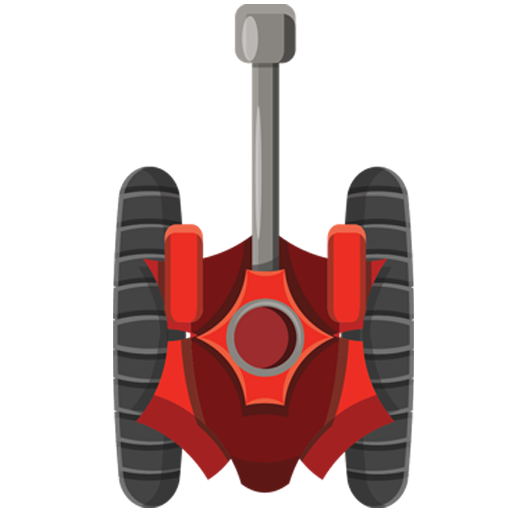
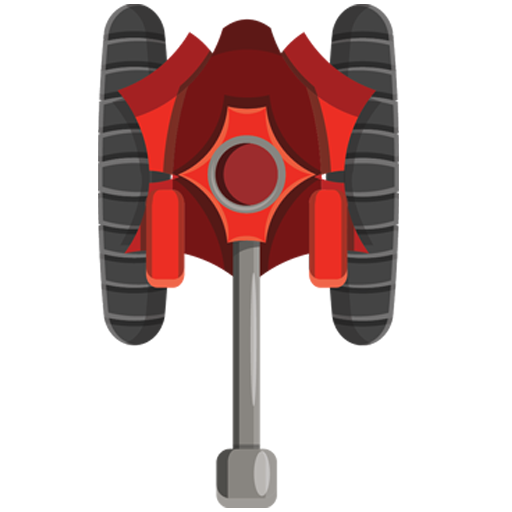
aligned both the players

diff --git a/src/App/Components/CanvasElements/Background.tsx b/src/App/Components/CanvasElements/Background.tsx
@@ -1,8 +1,8 @@
 import React from "react";
 import Konva from "konva";
 import { Stage, Layer } from "react-konva";
-import Star from "./Star";
-import URLImage from "./URLImage";
+import Hero from "../Hero";
+import Villian from "../Villian";
 
 interface IProps {
   stageWidth: number;
@@ -38,19 +38,8 @@ export default class Background extends React.Component<IProps> {
     return (
       <Stage width={stageWidth} height={stageHeight}>
         <Layer>
-          <Star
-            width={stageWidth}
-            height={stageHeight}
-            handleDragStart={this.handleDragStart}
-            handleDragEnd={this.handleDragEnd}
-          />
-          <URLImage
-            src={require("Src/Assets/redtank.png")}
-            height={50}
-            width={50}
-            positionX={250}
-            positionY={50}
-          />
+          <Hero stageWidth={stageWidth} stageHeight={stageHeight} />
+          <Villian stageWidth={stageWidth} stageHeight={stageHeight} />
         </Layer>
       </Stage>
     );

diff --git a/src/App/Pages/HomePage/HomePage.tsx b/src/App/Pages/HomePage/HomePage.tsx
@@ -1,5 +1,7 @@
 import * as React from "react";
-import Background from "Src/App/Components/CanvasElements/Background";
+import { Stage, Layer } from "react-konva";
+import Hero from "Src/App/Components/Hero";
+import Villian from "Src/App/Components/Villian";
 
 interface IState {
   stageWidth: number;
@@ -52,7 +54,12 @@ export default class Homepage extends React.Component {
         }}
         ref={this.backGroundRef}
       >
-        <Background stageWidth={stageWidth} stageHeight={stageHeight} />;
+        <Stage width={stageWidth} height={stageHeight}>
+          <Layer>
+            <Hero stageWidth={stageWidth} stageHeight={stageHeight} />
+            <Villian stageWidth={stageWidth} stageHeight={stageHeight} />
+          </Layer>
+        </Stage>
       </div>
     );
   }

diff --git a/src/App/Components/Hero/index.tsx b/src/App/Components/Hero/index.tsx
@@ -1,0 +1,35 @@
+import React from "react";
+import URLImage from "../CanvasElements/URLImage";
+
+interface IState {
+  positionX: number;
+  positionY: number;
+}
+
+interface IProps {
+  stageWidth: number;
+  stageHeight: number;
+}
+
+export default class Hero extends React.Component<IProps, IState> {
+  public readonly state = {
+    positionX: 0,
+    positionY: 0
+  };
+
+  public render() {
+    const { stageWidth, stageHeight } = this.props;
+    const positionX = stageWidth / 2 - 25;
+    const positionY = stageHeight - 60;
+
+    return (
+      <URLImage
+        src={require("Src/Assets/bluetank.png")}
+        height={50}
+        width={50}
+        positionX={positionX}
+        positionY={positionY}
+      />
+    );
+  }
+}

diff --git a/src/App/Components/Villian/index.tsx b/src/App/Components/Villian/index.tsx
@@ -1,0 +1,32 @@
+import React from "react";
+import URLImage from "../CanvasElements/URLImage";
+
+interface IState {
+  positionX: number;
+}
+
+interface IProps {
+  stageWidth: number;
+  stageHeight: number;
+}
+
+export default class Villian extends React.Component<IProps, IState> {
+  public readonly state = {
+    positionX: 10
+  };
+
+  public render() {
+    const { stageWidth, stageHeight } = this.props;
+    const positionX = stageWidth / 2 - 25;
+
+    return (
+      <URLImage
+        src={require("Src/Assets/redtank.png")}
+        height={50}
+        width={50}
+        positionX={positionX}
+        positionY={10}
+      />
+    );
+  }
+}

diff --git a/src/App/Components/CanvasElements/URLImage.tsx b/src/App/Components/CanvasElements/URLImage.tsx
@@ -15,11 +15,11 @@ interface IState {
 
 export default class URLImage extends React.Component<IProps, IState> {
   public readonly state = {
-    image: new window.Image()
+    image: new (window as any).Image()
   };
 
   public componentDidMount() {
-    const image = new window.Image();
+    const image = new (window as any).Image();
     image.src = this.props.src;
 
     image.onload = () => {
